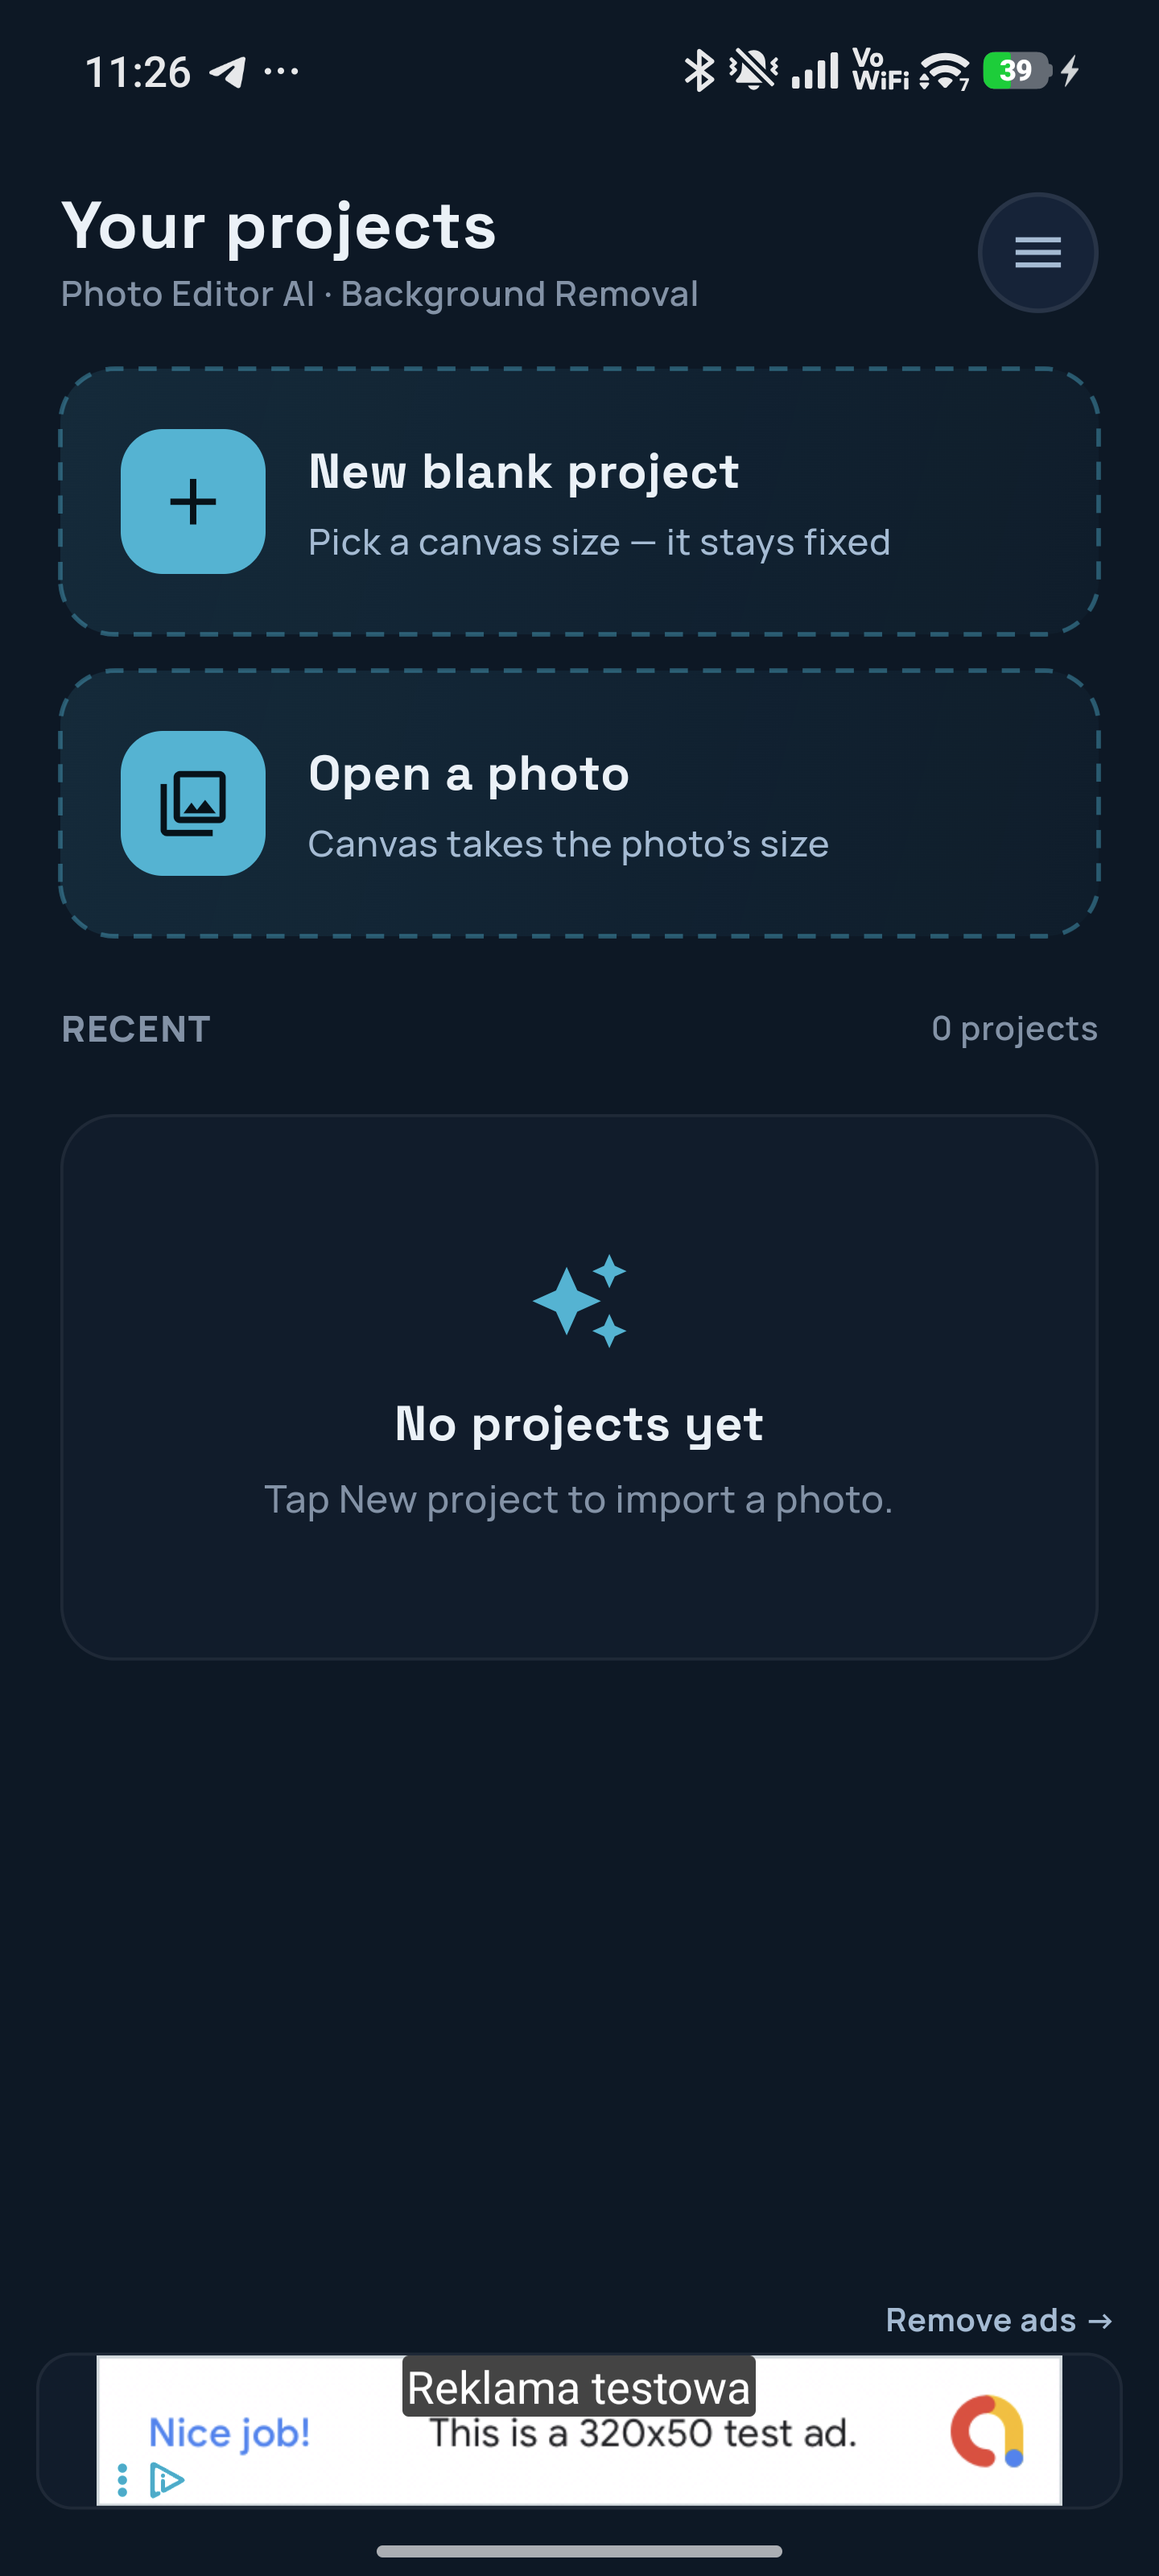
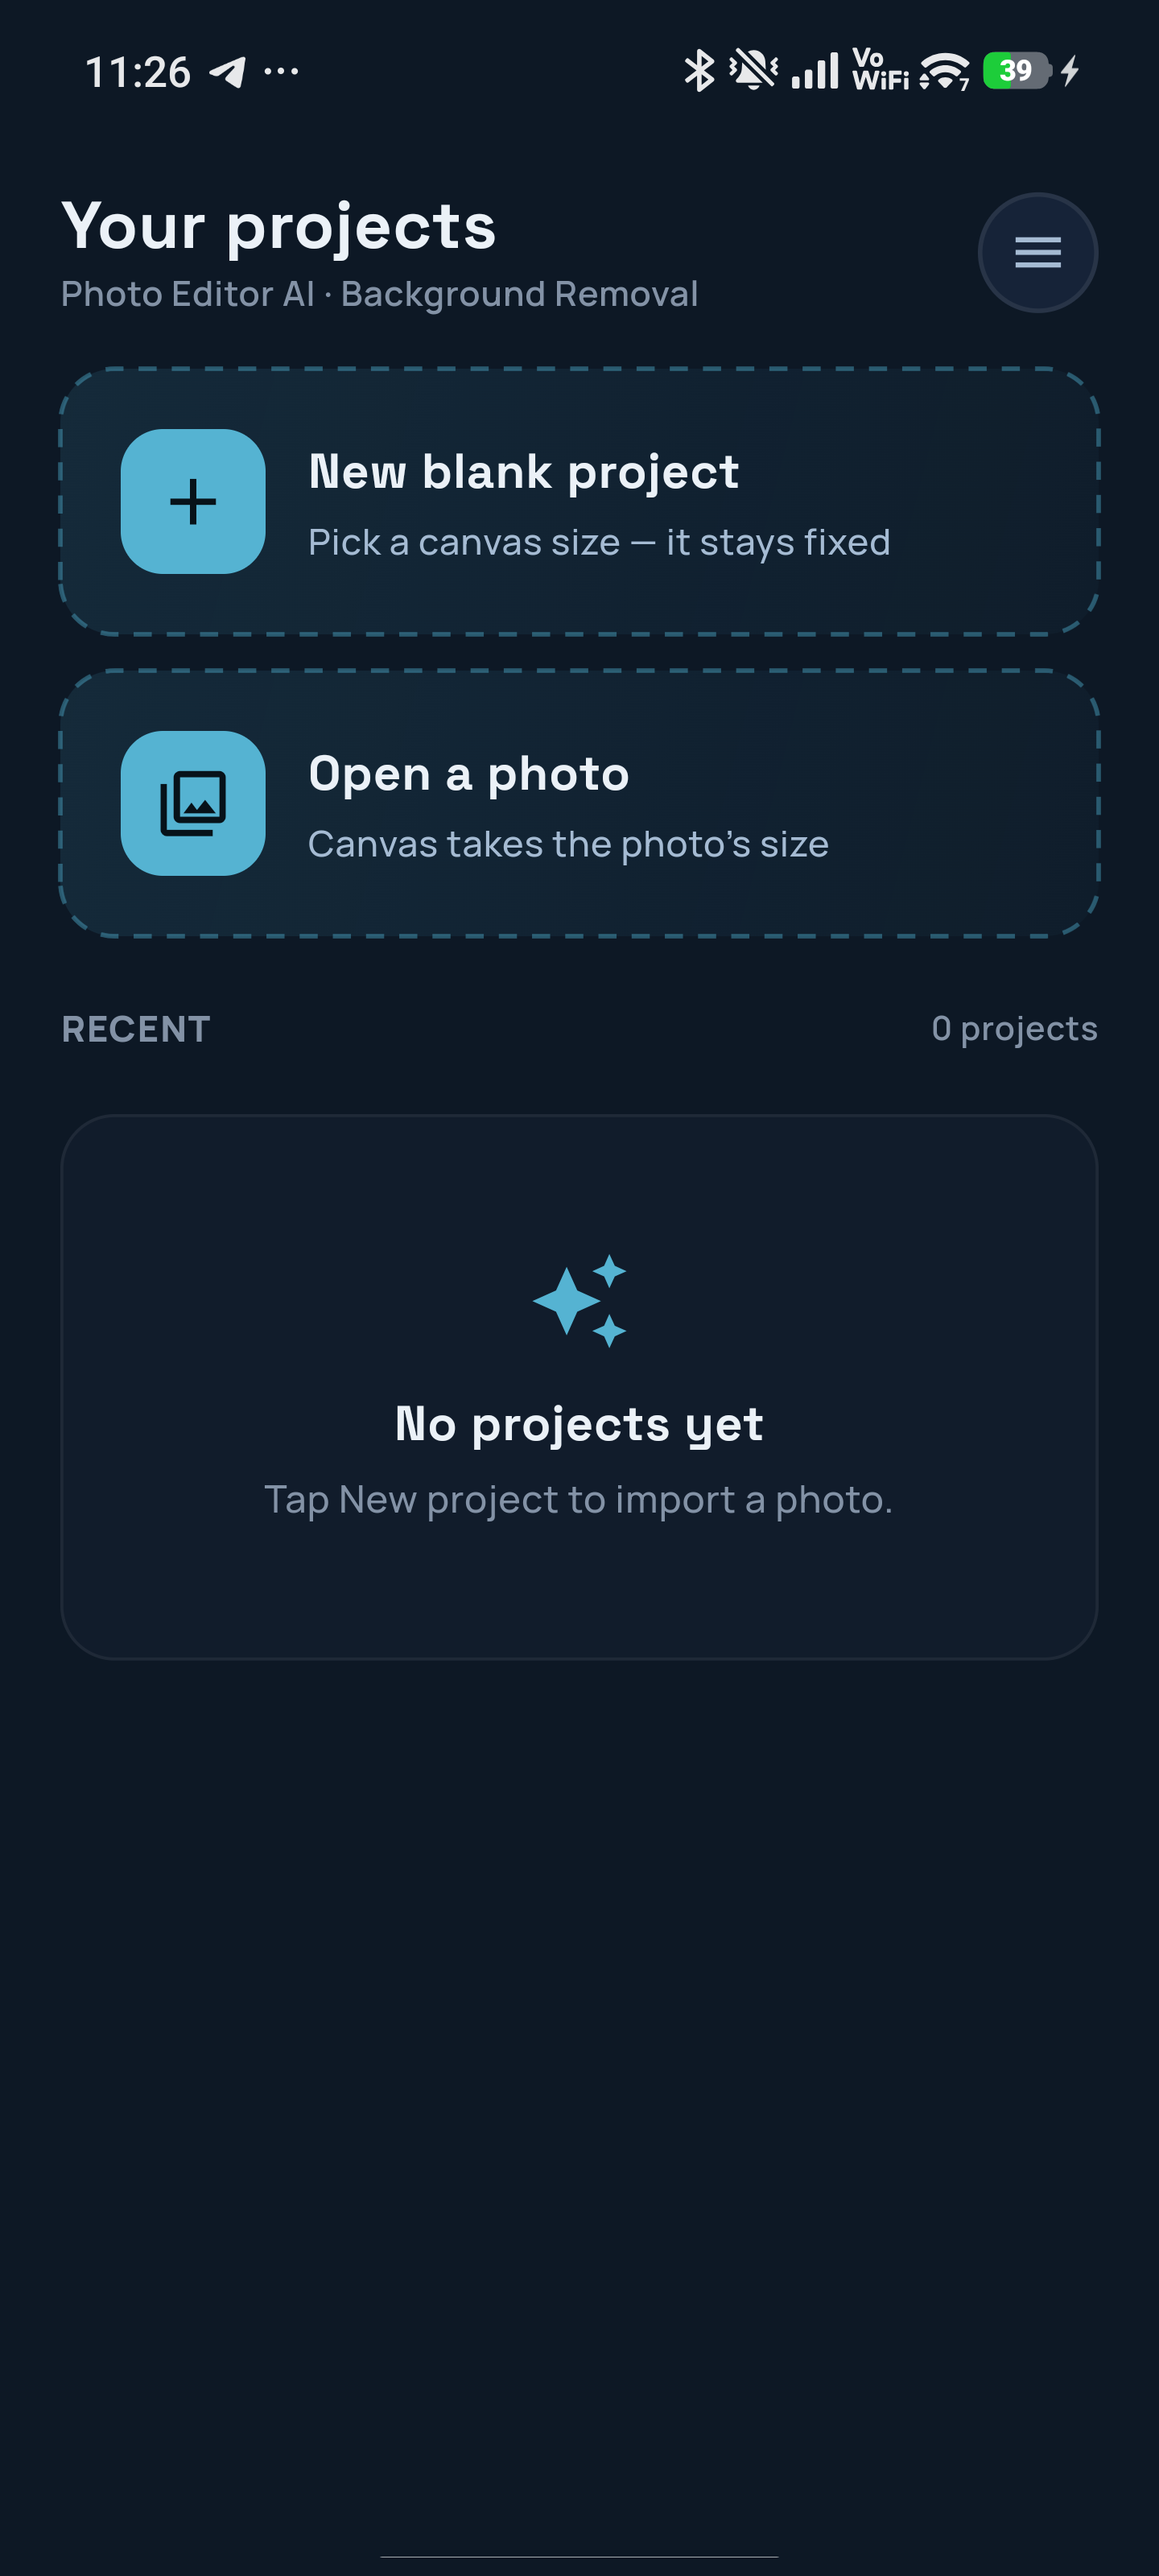
Website: ad-free Home screenshot + Google Play badge CTAs
- Remove the test-ad banner (and the "Remove ads" upsell) from the Home
  screenshot, filling with the app background per-row so there's no seam —
  a clean, ad-free marketing shot.
- Replace the plain "Get the app" buttons with the Google Play store badge
  used on idct.tech/sticker-maker (.store-badge: Play glyph + "Get it on /
  Google Play"), in the header (compact), hero, CTA band, and both legal-page
  navs. Final store link is pending — the href is a placeholder Play URL to
  swap when provided (see website/README.md).

Changed region(s): [[0.0625, 0.875, 0.9375, 1.0]]

diff --git a/website/index.html b/website/index.html
@@ -53,7 +53,10 @@
         <a href="#why">Why</a>
         <a href="#faq">FAQ</a>
         <a href="#contact">Contact</a>
-        <a class="btn btn-primary nav-cta" href="#get">Get the app</a>
+        <a class="store-badge nav-cta" href="https://play.google.com/store/apps/details?id=tech.idct.photoeditor" rel="noopener" aria-label="Get Photo Editor AI on Google Play">
+          <svg class="ic" viewBox="0 0 512 512" fill="currentColor" aria-hidden="true" focusable="false"><path d="M325.3 234.3L104.6 13l280.8 161.2-60.1 60.1zM47 0C34 6.8 25.3 19.2 25.3 35.3v441.3c0 16.1 8.7 28.5 21.7 35.3l256.6-256L47 0zm425.2 225.6l-58.9-34.1-65.7 64.5 65.7 64.5 60.1-34.1c18-14.3 18-46.5-1.2-60.8zM104.6 499l280.8-161.2-60.1-60.1L104.6 499z"/></svg>
+          <span class="store-badge-text"><span class="store-badge-sub">Get it on</span><span class="store-badge-name">Google Play</span></span>
+        </a>
       </nav>
       <button class="nav-toggle" id="navToggle" aria-label="Toggle menu" aria-controls="navLinks" aria-expanded="false">☰</button>
     </div>
@@ -68,10 +71,13 @@
           <h1>Erase the background.<br><span class="grad-text">Not your privacy.</span></h1>
           <p class="lead">Photo Editor AI cuts out subjects, erases objects, and adds layers, text &amp; comic bubbles — powered by AI that runs entirely on your phone.</p>
           <div class="hero-cta" id="get">
-            <!-- App not yet published. At launch, swap href to the Play listing
-                 (https://play.google.com/store/apps/details?id=tech.idct.photoeditor)
-                 and relabel to "Get it on Google Play". -->
-            <a class="btn btn-primary" href="#contact">Get notified at launch</a>
+            <!-- Google Play badge (same style as idct.tech/sticker-maker).
+                 FINAL store link to be provided — swap the href here and on the
+                 header/CTA-band badges when it's ready. -->
+            <a class="store-badge" href="https://play.google.com/store/apps/details?id=tech.idct.photoeditor" rel="noopener" aria-label="Get Photo Editor AI on Google Play">
+              <svg class="ic" viewBox="0 0 512 512" fill="currentColor" aria-hidden="true" focusable="false"><path d="M325.3 234.3L104.6 13l280.8 161.2-60.1 60.1zM47 0C34 6.8 25.3 19.2 25.3 35.3v441.3c0 16.1 8.7 28.5 21.7 35.3l256.6-256L47 0zm425.2 225.6l-58.9-34.1-65.7 64.5 65.7 64.5 60.1-34.1c18-14.3 18-46.5-1.2-60.8zM104.6 499l280.8-161.2-60.1-60.1L104.6 499z"/></svg>
+              <span class="store-badge-text"><span class="store-badge-sub">Get it on</span><span class="store-badge-name">Google Play</span></span>
+            </a>
             <a class="btn btn-ghost" href="#effects">See it in action</a>
           </div>
           <p class="hero-note"><strong>Coming soon</strong> to Google Play · Free, ad-supported · one-time upgrade removes ads.</p>
@@ -271,7 +277,10 @@
         <div class="cta-band">
           <h2>Ready to cut it out?</h2>
           <p>Free, on-device, and private. Turn any photo into a clean cut-out in a single tap — coming soon to Google Play.</p>
-          <a class="btn btn-primary" href="#contact">Get notified at launch</a>
+          <a class="store-badge" href="https://play.google.com/store/apps/details?id=tech.idct.photoeditor" rel="noopener" aria-label="Get Photo Editor AI on Google Play">
+            <svg class="ic" viewBox="0 0 512 512" fill="currentColor" aria-hidden="true" focusable="false"><path d="M325.3 234.3L104.6 13l280.8 161.2-60.1 60.1zM47 0C34 6.8 25.3 19.2 25.3 35.3v441.3c0 16.1 8.7 28.5 21.7 35.3l256.6-256L47 0zm425.2 225.6l-58.9-34.1-65.7 64.5 65.7 64.5 60.1-34.1c18-14.3 18-46.5-1.2-60.8zM104.6 499l280.8-161.2-60.1-60.1L104.6 499z"/></svg>
+            <span class="store-badge-text"><span class="store-badge-sub">Get it on</span><span class="store-badge-name">Google Play</span></span>
+          </a>
         </div>
       </div>
     </section>

diff --git a/website/styles.css b/website/styles.css
@@ -120,6 +120,24 @@ img { max-width: 100%; display: block; }
 .btn .sub { font-family: var(--font-body); font-weight: 500; font-size: 0.72rem; opacity: 0.85; display: block; line-height: 1; margin-top: 2px; }
 .btn-store { padding: 0.7em 1.3em; text-align: left; }
 
+/* Google Play store badge — matches idct.tech/sticker-maker */
+.store-badge {
+  display: inline-flex; align-items: center; gap: 12px; min-width: 200px;
+  padding: 10px 18px; border-radius: 14px;
+  border: 1px solid var(--border); background: var(--card); color: var(--text);
+  transition: transform 0.15s ease, border-color 0.15s ease, box-shadow 0.15s ease;
+}
+.store-badge:hover { transform: translateY(-2px); border-color: rgba(255, 255, 255, 0.18); box-shadow: var(--shadow); color: var(--text); }
+.store-badge .ic { width: 24px; height: 24px; flex: 0 0 auto; }
+.store-badge-text { display: flex; flex-direction: column; line-height: 1.2; text-align: left; }
+.store-badge-sub { font-size: 10px; text-transform: uppercase; letter-spacing: 0.09em; color: var(--muted); }
+.store-badge-name { font-family: var(--font-display); font-weight: 600; font-size: 16px; }
+/* compact variant for the sticky header */
+.nav .store-badge { min-width: 0; padding: 7px 13px; gap: 9px; }
+.nav .store-badge .ic { width: 19px; height: 19px; }
+.nav .store-badge-sub { display: none; }
+.nav .store-badge-name { font-size: 14px; }
+
 /* ---------- Header ---------- */
 .site-header {
   position: sticky;
@@ -329,7 +347,7 @@ img { max-width: 100%; display: block; }
   .stickers { grid-template-columns: 1fr; }
   .form .row { grid-template-columns: 1fr; }
   .hero-cta { flex-direction: column; align-items: stretch; }
-  .hero-cta .btn { justify-content: center; }
+  .hero-cta .btn, .hero-cta .store-badge { justify-content: center; }
 }
 
 /* ---------- Cookie consent (opt-in; gates analytics) ---------- */

diff --git a/website/privacy.html b/website/privacy.html
@@ -41,7 +41,10 @@
         <a href="index.html#features">Features</a>
         <a href="index.html#faq">FAQ</a>
         <a href="index.html#contact">Contact</a>
-        <a class="btn btn-primary nav-cta" href="index.html#get">Get the app</a>
+        <a class="store-badge nav-cta" href="https://play.google.com/store/apps/details?id=tech.idct.photoeditor" rel="noopener" aria-label="Get Photo Editor AI on Google Play">
+          <svg class="ic" viewBox="0 0 512 512" fill="currentColor" aria-hidden="true" focusable="false"><path d="M325.3 234.3L104.6 13l280.8 161.2-60.1 60.1zM47 0C34 6.8 25.3 19.2 25.3 35.3v441.3c0 16.1 8.7 28.5 21.7 35.3l256.6-256L47 0zm425.2 225.6l-58.9-34.1-65.7 64.5 65.7 64.5 60.1-34.1c18-14.3 18-46.5-1.2-60.8zM104.6 499l280.8-161.2-60.1-60.1L104.6 499z"/></svg>
+          <span class="store-badge-text"><span class="store-badge-sub">Get it on</span><span class="store-badge-name">Google Play</span></span>
+        </a>
       </nav>
       <button class="nav-toggle" id="navToggle" aria-label="Toggle menu" aria-controls="navLinks" aria-expanded="false">☰</button>
     </div>

diff --git a/website/terms.html b/website/terms.html
@@ -41,7 +41,10 @@
         <a href="index.html#features">Features</a>
         <a href="index.html#faq">FAQ</a>
         <a href="index.html#contact">Contact</a>
-        <a class="btn btn-primary nav-cta" href="index.html#get">Get the app</a>
+        <a class="store-badge nav-cta" href="https://play.google.com/store/apps/details?id=tech.idct.photoeditor" rel="noopener" aria-label="Get Photo Editor AI on Google Play">
+          <svg class="ic" viewBox="0 0 512 512" fill="currentColor" aria-hidden="true" focusable="false"><path d="M325.3 234.3L104.6 13l280.8 161.2-60.1 60.1zM47 0C34 6.8 25.3 19.2 25.3 35.3v441.3c0 16.1 8.7 28.5 21.7 35.3l256.6-256L47 0zm425.2 225.6l-58.9-34.1-65.7 64.5 65.7 64.5 60.1-34.1c18-14.3 18-46.5-1.2-60.8zM104.6 499l280.8-161.2-60.1-60.1L104.6 499z"/></svg>
+          <span class="store-badge-text"><span class="store-badge-sub">Get it on</span><span class="store-badge-name">Google Play</span></span>
+        </a>
       </nav>
       <button class="nav-toggle" id="navToggle" aria-label="Toggle menu" aria-controls="navLinks" aria-expanded="false">☰</button>
     </div>

diff --git a/website/README.md b/website/README.md
@@ -45,9 +45,12 @@ Both placeholders are **self-guarding**:
 - The before/after slider expects the two effect images to share the **3:4**
   aspect ratio (`dog-before.jpg` / `dog-studio.jpg` are 900×1200). Keep new
   slider images at 3:4 so the reveal stays pixel-aligned.
-- The app CTAs point at `#contact` ("Get notified at launch") because the app
-  isn't on Google Play yet. At launch, swap them to the Play listing URL and
-  relabel to "Get it on Google Play" (see the HTML comments in `index.html`).
+- The download CTAs use a **Google Play badge** (`.store-badge`, matching
+  idct.tech/sticker-maker). Its `href` is a placeholder Play URL for this app id
+  (`play.google.com/store/apps/details?id=tech.idct.photoeditor`). When the final
+  store link is provided, replace that URL on every `.store-badge` — header, hero,
+  CTA band, and the nav on both legal pages. A "Coming soon to Google Play" note
+  sits under the hero badge until launch.
 
 ## The AI example images
 
